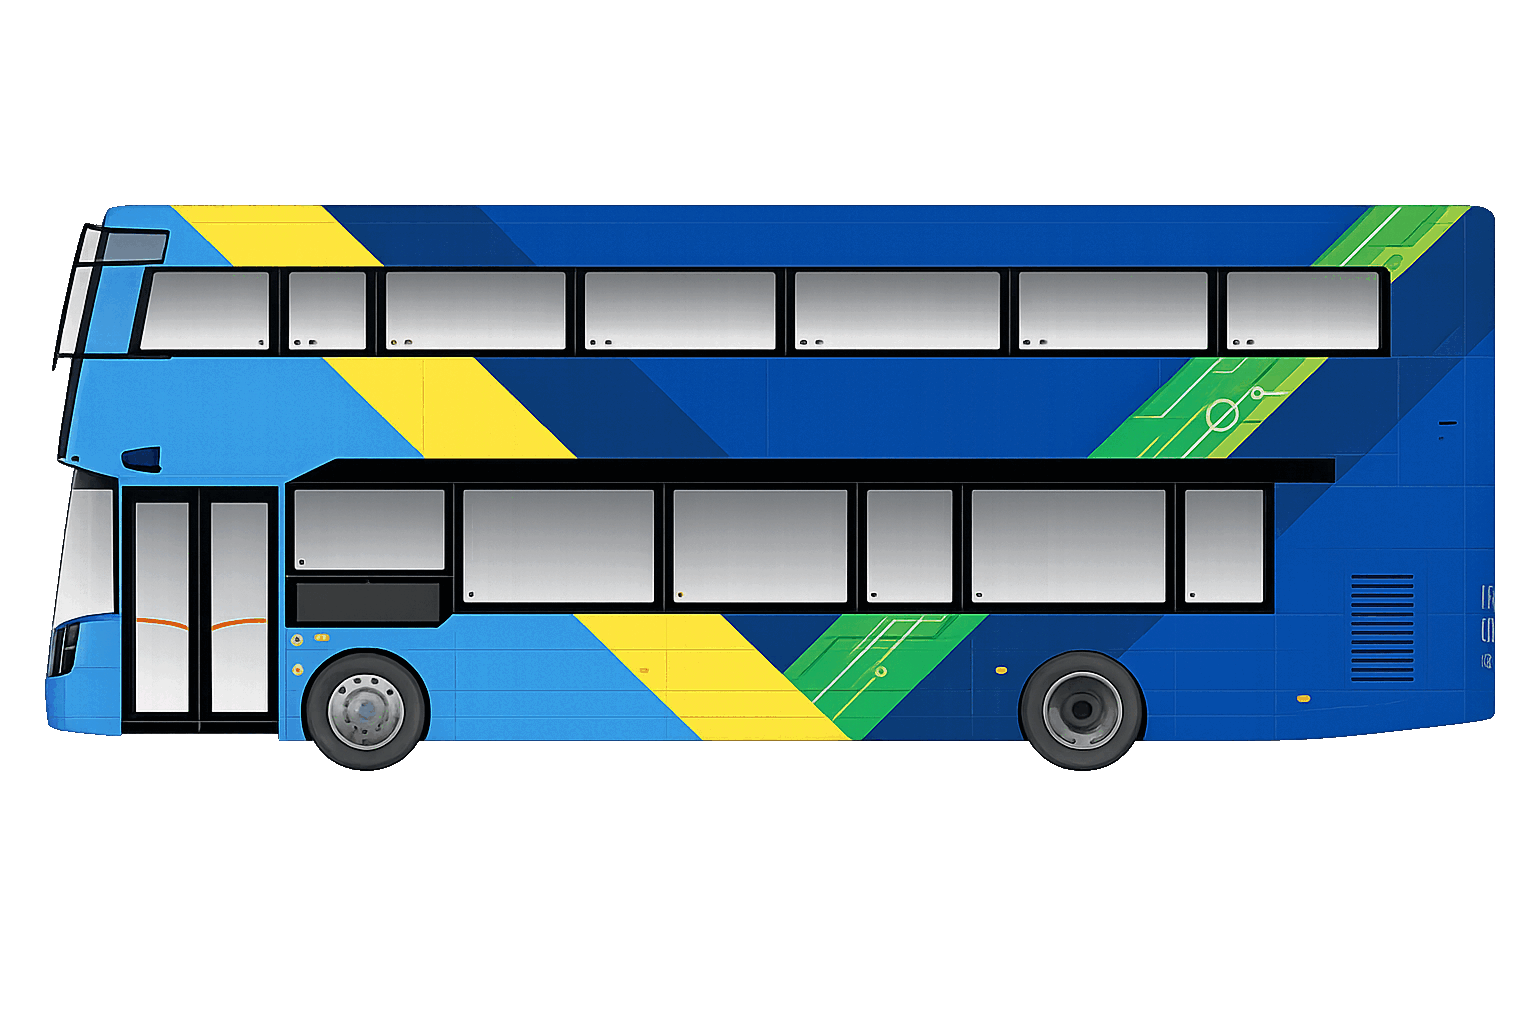
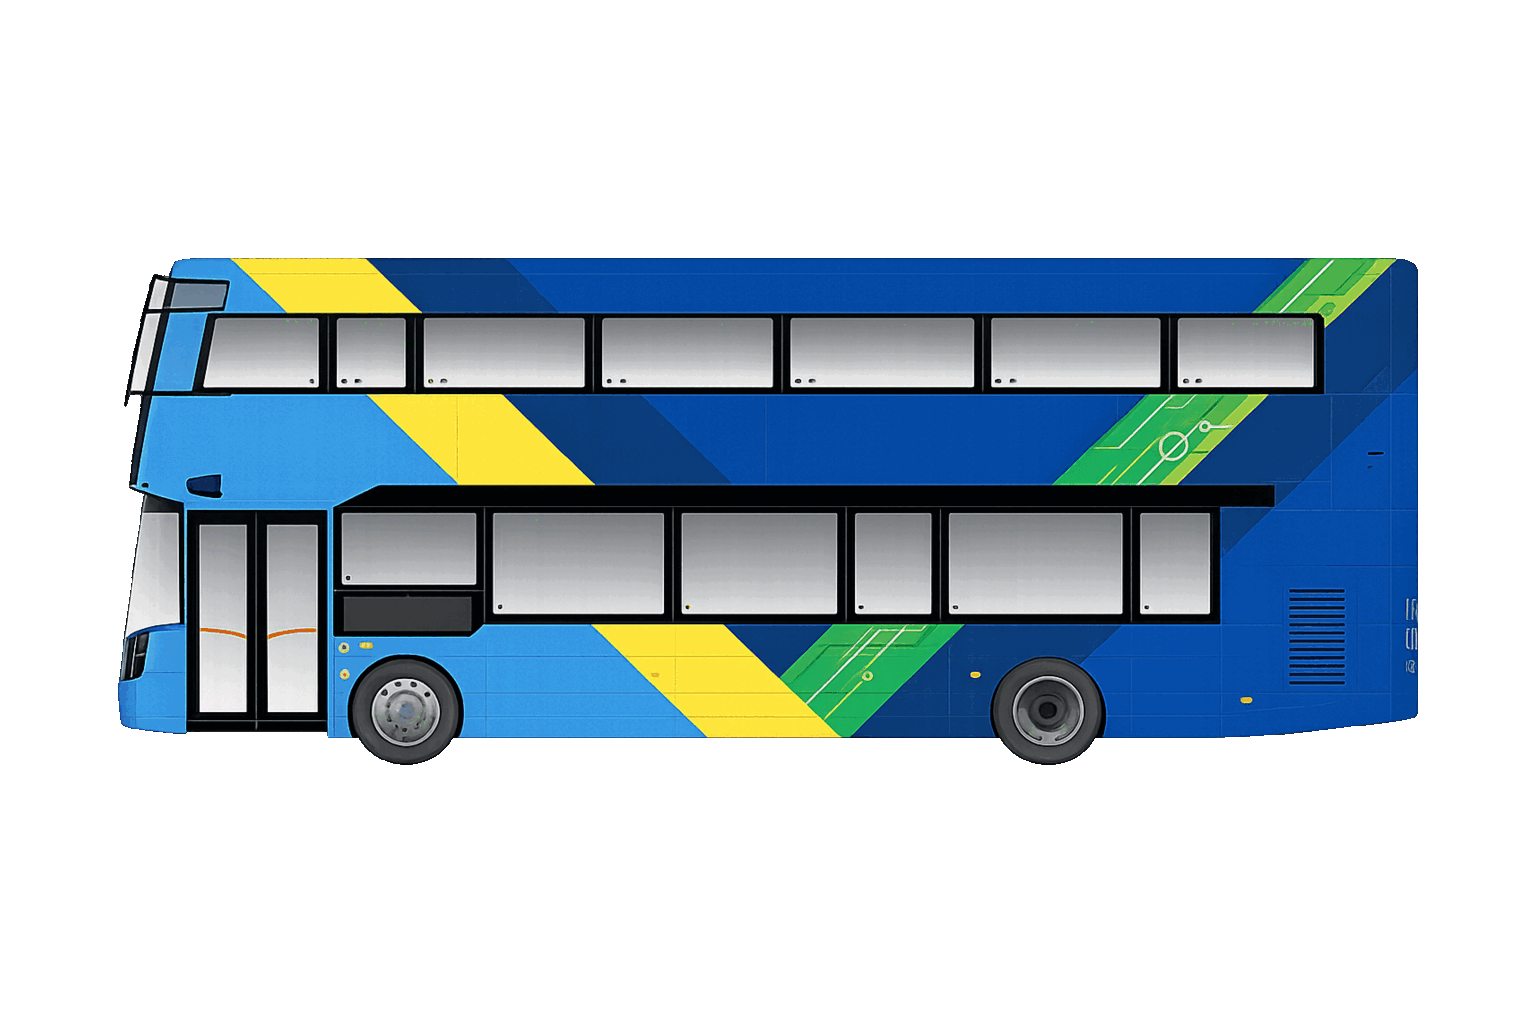
Rail: smooth A/B transitions, pill = "Destination HH:MM", METR repad
Three visual improvements after the previous rail iteration shipped.

1. rAF loop owns marker position (advisor catch).
   recomputeRailPositions previously called setLatLng every 30s on the
   raw target — that snapped the dot at A/B transitions, defeating the
   easing the rAF loop was meant to provide. Now: recompute only writes
   setLatLng on marker *creation* (and seeds entry.displayed there);
   subsequent refreshes only update entry.target. The rAF loop is the
   sole steady-state position-writer, easing entry.displayed toward the
   raw target at 0.18/frame (~170ms settle @ 60Hz). Transitions glide
   through the bend at Brighton instead of snapping.

2. Train pill label: destination NAME + time due at the board station.
   Was "BDM" or fallback "Headcode 9R00"; now "Bedford 04:12". boardCrs
   pinned on the entry at Track time so a board switch doesn't change
   the running pill. Fallback chain dest-name → dest-CRS → headcode.
   Pill widened to 120px; long names ellipsis-truncate at 116px.
   Pulse ring reparented inside the pill (was at the wrap level → would
   have rendered as a 120px halo behind a 40-95px pill — advisor catch).

3. METR icon repadded to match BHBC's visual weight. Was 94%x55% canvas
   (wide-short), now 85%x50% with consistent transparent border so the
   bus body lines up with the other operators' icon footprint. File
   stays palette PNG, ~188KB.

Direction-reversal question stays open — easing softens the *correction*
[…]

diff --git a/app.js b/app.js
@@ -4310,15 +4310,15 @@ function railTrainDivIcon(colour, label, opts = {}) {
   if (opts.pulse) cls.push("rail-train-icon-wrap--pulse");
   const html = `
     <div class="${cls.join(' ')}" style="--rail-train-bg:${bg};">
-      <div class="rail-train-pulse" aria-hidden="true"></div>
       <div class="rail-train-icon" style="background:${bg};">
+        <div class="rail-train-pulse" aria-hidden="true"></div>
         <span class="rail-train-label">${escapeHtml(label || "")}</span>
       </div>
     </div>`;
   return L.divIcon({
     html, className: "rail-train-divicon",
-    iconSize:   [48, 26],
-    iconAnchor: [24, 13],
+    iconSize:   [120, 26],
+    iconAnchor: [60, 13],
   });
 }
 
@@ -4515,7 +4515,19 @@ function renderRailBoardRow(svc) {
 async function selectRailService(uid, date) {
   if (!uid || !date) return;
   if (state.selectedRailServices[uid]) return; // already tracked
-  state.selectedRailServices[uid] = { date, calling: null, marker: null, lastPos: null };
+  state.selectedRailServices[uid] = {
+    date,
+    calling: null,
+    marker: null,
+    lastPos: null,
+    displayed: null,
+    target: null,
+    flownTo: false,
+    // Pin the board CRS at Track time — the user may switch boards while
+    // tracking; the pill should keep showing the time at the board the
+    // service was selected from.
+    boardCrs: state.selectedRailStation?.crs || null,
+  };
   startRailRefreshTimer();
   startRailAnimationLoop();
   try {
@@ -4684,14 +4696,16 @@ function recomputeRailPositions() {
     const { lat, lon } = railPosAt(entry.target, now);
 
     const colour   = railOperatorColour(svc.atocCode);
-    const headcode = svc.headcode || (svc.uid || "").slice(-3);
-    const destCrs  = (svc.destination && svc.destination[0]
-                      && svc.destination[0].crs) || "";
-    const label    = destCrs || headcode;
+    const label    = railPillLabel(svc, entry);
 
     const justCreated = !entry.marker;
     if (justCreated) {
       ensureRailPanes();
+      // Place the marker at the freshly computed position and seed `displayed`
+      // so the rAF loop has a starting point to ease from. The rAF loop is the
+      // ONLY steady-state position-writer — subsequent refreshes update target
+      // only, so transitions glide instead of snapping.
+      entry.displayed = { lat, lon };
       entry.marker = L.marker([lat, lon], {
         icon: railTrainDivIcon(colour, label, { pulse: true }),
         pane: "railTrainPane",
@@ -4714,27 +4728,49 @@ function recomputeRailPositions() {
                     ?.classList.remove("rail-train-icon-wrap--pulse");
         }
       }, 4000);
+
+      // One-shot flyTo when the marker first materialises (whether on Track
+      // click or a later refresh that finally produced an in-bbox actual).
+      if (!entry.flownTo) {
+        state.map.flyTo([lat, lon],
+                        Math.max(state.map.getZoom(), 13),
+                        { duration: 0.8 });
+        entry.flownTo = true;
+      }
     } else if (entry.markerColour !== colour || entry.markerLabel !== label) {
+      // Colour/label change only — no setLatLng; rAF loop owns position.
       entry.marker.setIcon(railTrainDivIcon(colour, label));
       entry.markerColour = colour;
       entry.markerLabel  = label;
     }
-    entry.marker.setLatLng([lat, lon]);
+    // Title (tooltip) may have changed if A/B advanced; cheap to update.
     const tipEl = entry.marker.getElement();
     if (tipEl) tipEl.setAttribute("title", railTrainTitle(svc, entry.target));
 
-    entry.lastPos = { lat, lon };
     entry.lastSeg = { fromCrs: A.loc.crs, toCrs: B.loc.crs };
-
-    // One-shot flyTo when the marker first materialises (whether on Track
-    // click or a later refresh that finally produced an in-bbox actual).
-    if (justCreated && !entry.flownTo) {
-      state.map.flyTo([lat, lon],
-                      Math.max(state.map.getZoom(), 13),
-                      { duration: 0.8 });
-      entry.flownTo = true;
-    }
   }
+}
+
+// Build the pill label: destination name + due time at the board CRS.
+// e.g. "Bedford 04:12". Fallback chain: name → CRS → headcode so the pill
+// never shows nothing.
+function railPillLabel(svc, entry) {
+  const dest = svc.destination && svc.destination[0];
+  const destName = (dest && (dest.description || dest.crs)) || "";
+  const boardTime = railBoardTimeFor(svc, entry.boardCrs);
+  const name = destName || svc.headcode || (svc.uid || "").slice(-3);
+  return boardTime ? `${name} ${boardTime}` : name;
+}
+
+function railBoardTimeFor(svc, boardCrs) {
+  if (!boardCrs || !svc || !Array.isArray(svc.locations)) return "";
+  const loc = svc.locations.find(l => l && l.crs === boardCrs);
+  if (!loc) return "";
+  // Prefer departure for non-terminus, arrival for terminus.
+  const td = pickRailDisplayTime(loc.departure && (loc.departure.actual
+              || loc.departure.forecast || loc.departure.scheduled)
+              ? loc.departure : loc.arrival);
+  return formatRailTime(td.iso);
 }
 
 // Helper: where is the train *right now* given a target window? Used both by
@@ -4756,9 +4792,13 @@ function railTrainTitle(svc, target) {
 }
 
 // ── Per-frame animation loop ─────────────────────────────────
-// Runs while at least one service is tracked. Each frame, for every entry
-// with a target, recompute the position from current wall-clock time and
-// move the marker. No DOM writes beyond Leaflet's own setLatLng → cheap.
+// Runs while at least one service is tracked. Each frame, the rAF loop
+// computes where the train *should* be (the raw target) and eases the
+// *displayed* position toward it. This is the ONLY steady-state writer
+// of marker.setLatLng — recomputeRailPositions deliberately doesn't
+// touch position after marker creation, so a 30s refresh that advances
+// A→B doesn't snap the dot.
+const RAIL_EASE = 0.18;   // ~85% of distance closed in ~10 frames @ 60Hz
 let _railAnimFrame = null;
 function startRailAnimationLoop() {
   if (_railAnimFrame != null) return;
@@ -4769,9 +4809,14 @@ function startRailAnimationLoop() {
     for (const uid of Object.keys(state.selectedRailServices)) {
       const entry = state.selectedRailServices[uid];
       if (!entry || !entry.marker || !entry.target) continue;
-      const { lat, lon } = railPosAt(entry.target, now);
-      entry.marker.setLatLng([lat, lon]);
-      entry.lastPos = { lat, lon };
+      const target = railPosAt(entry.target, now);
+      const cur = entry.displayed || target;
+      entry.displayed = {
+        lat: cur.lat + (target.lat - cur.lat) * RAIL_EASE,
+        lon: cur.lon + (target.lon - cur.lon) * RAIL_EASE,
+      };
+      entry.marker.setLatLng([entry.displayed.lat, entry.displayed.lon]);
+      entry.lastPos = { lat: entry.displayed.lat, lon: entry.displayed.lon };
     }
     _railAnimFrame = requestAnimationFrame(loop);
   };

diff --git a/style.css b/style.css
@@ -3091,7 +3091,7 @@ body.editor-mode.editor-mode-add-stop .leaflet-popup-pane {
    the pill has no directional glyph and the label needs to stay readable. */
 .rail-train-icon-wrap {
   position: relative;
-  width: 48px; height: 26px;
+  width: 120px; height: 26px;
   display: flex; align-items: center; justify-content: center;
   pointer-events: auto;
 }
@@ -3101,6 +3101,7 @@ body.editor-mode.editor-mode-add-stop .leaflet-popup-pane {
   display: inline-flex; align-items: center; justify-content: center;
   height: 26px;
   min-width: 40px;
+  max-width: 116px;
   padding: 0 8px;
   border-radius: 13px;
   color: #fff;
@@ -3113,12 +3114,22 @@ body.editor-mode.editor-mode-add-stop .leaflet-popup-pane {
   white-space: nowrap;
   z-index: 2;
 }
+.rail-train-icon .rail-train-label {
+  position: relative;
+  z-index: 2;
+  overflow: hidden;
+  text-overflow: ellipsis;
+  white-space: nowrap;
+  max-width: 100%;
+}
 
-/* Pulse ring behind the pill. Appears for ~4 s on first show; the `pulse`
+/* Pulse ring tracks the pill itself (it's a child of .rail-train-icon).
+   `inset: -2px` so the ring sits just outside the pill border at scale 1
+   and grows from there. Appears for ~4 s on first show; the `pulse`
    modifier class is removed by JS so long-tracked markers don't strobe. */
 .rail-train-pulse {
   position: absolute;
-  inset: 0;
+  inset: -2px;
   border-radius: 13px;
   background: var(--rail-train-bg, #0b66c2);
   opacity: 0;
